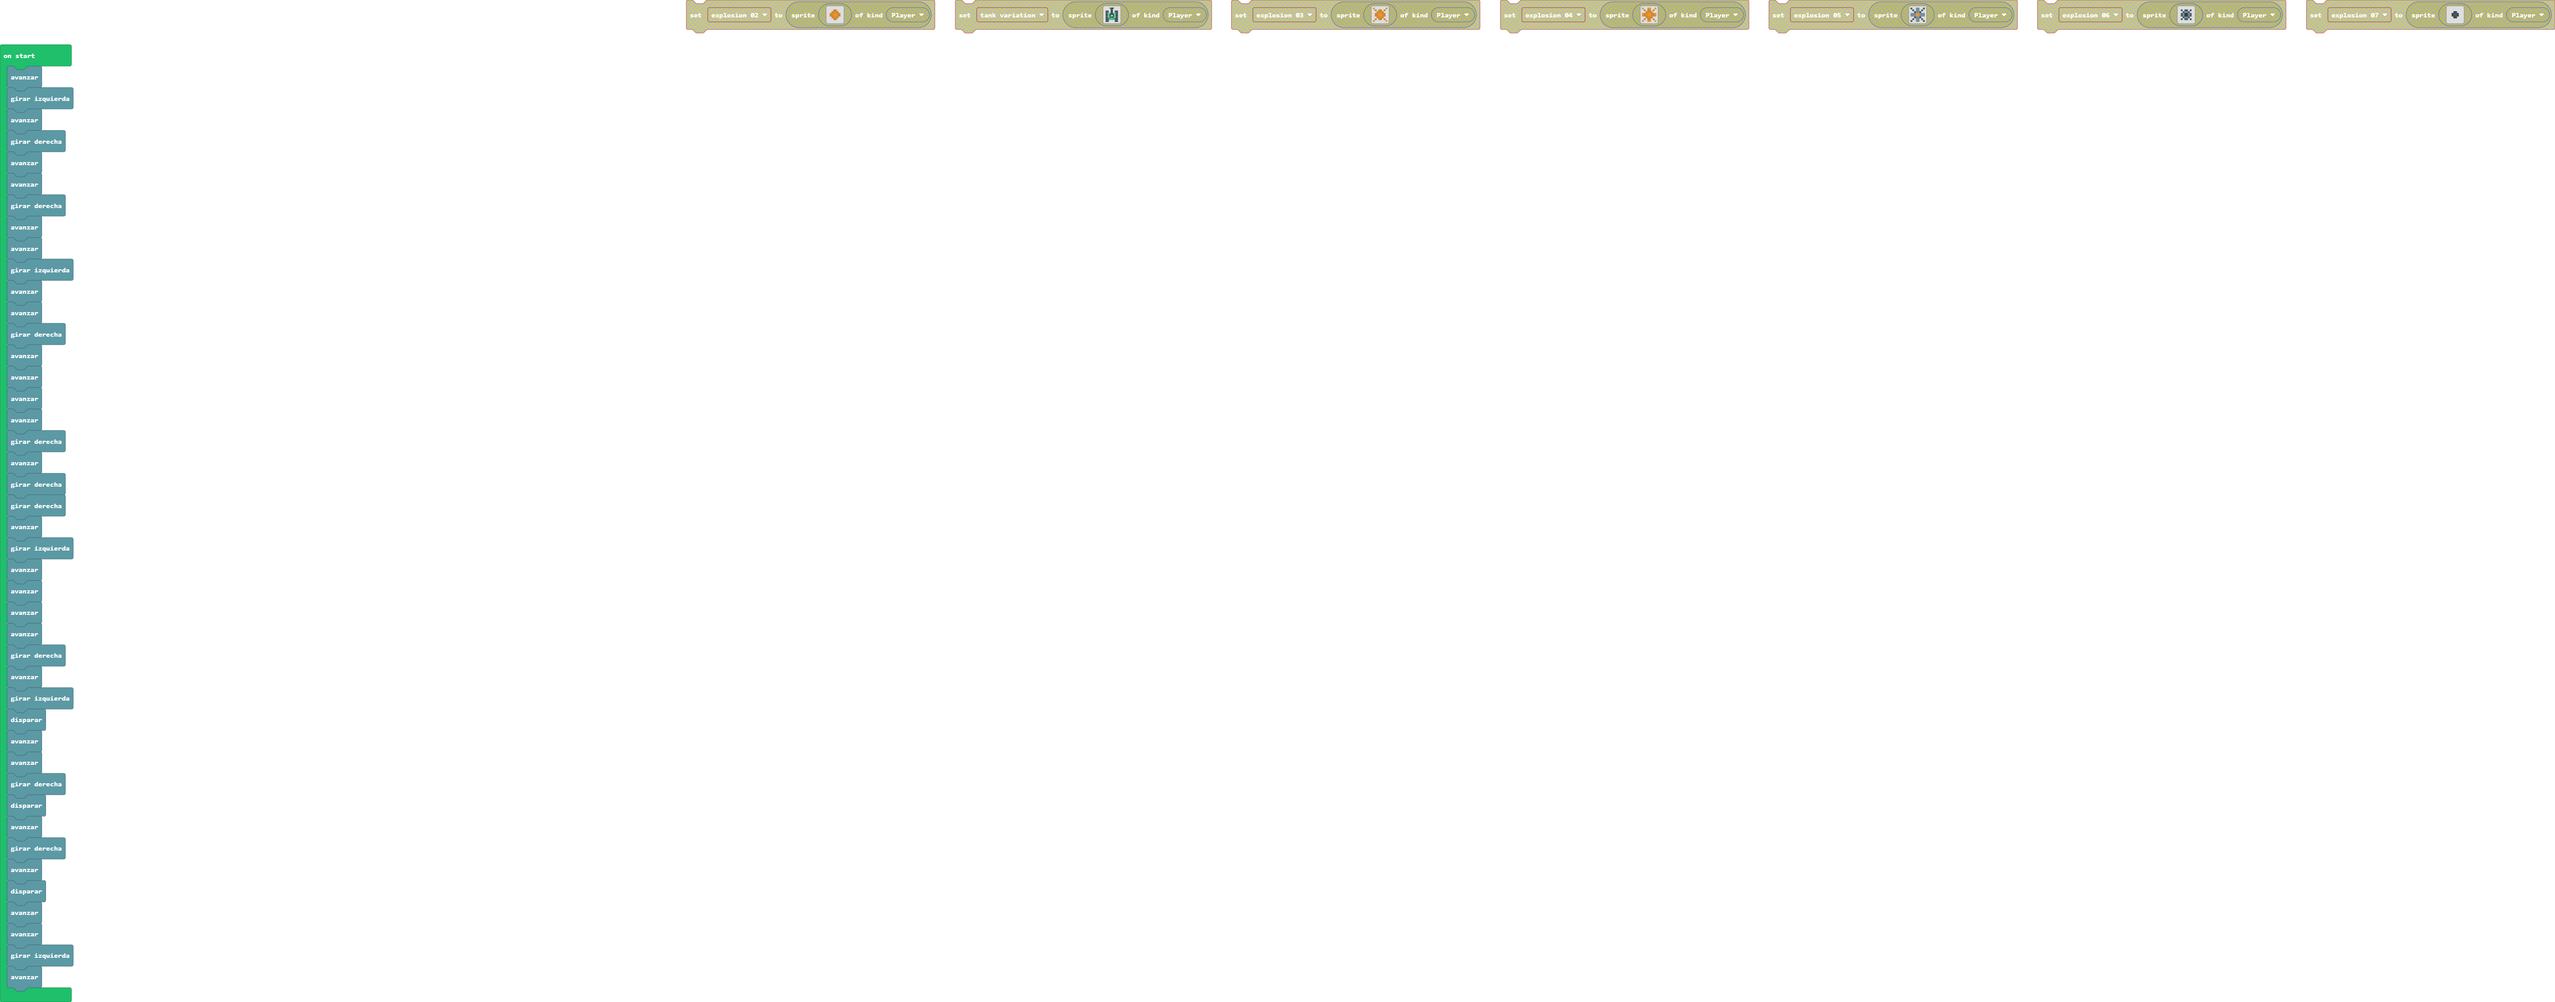
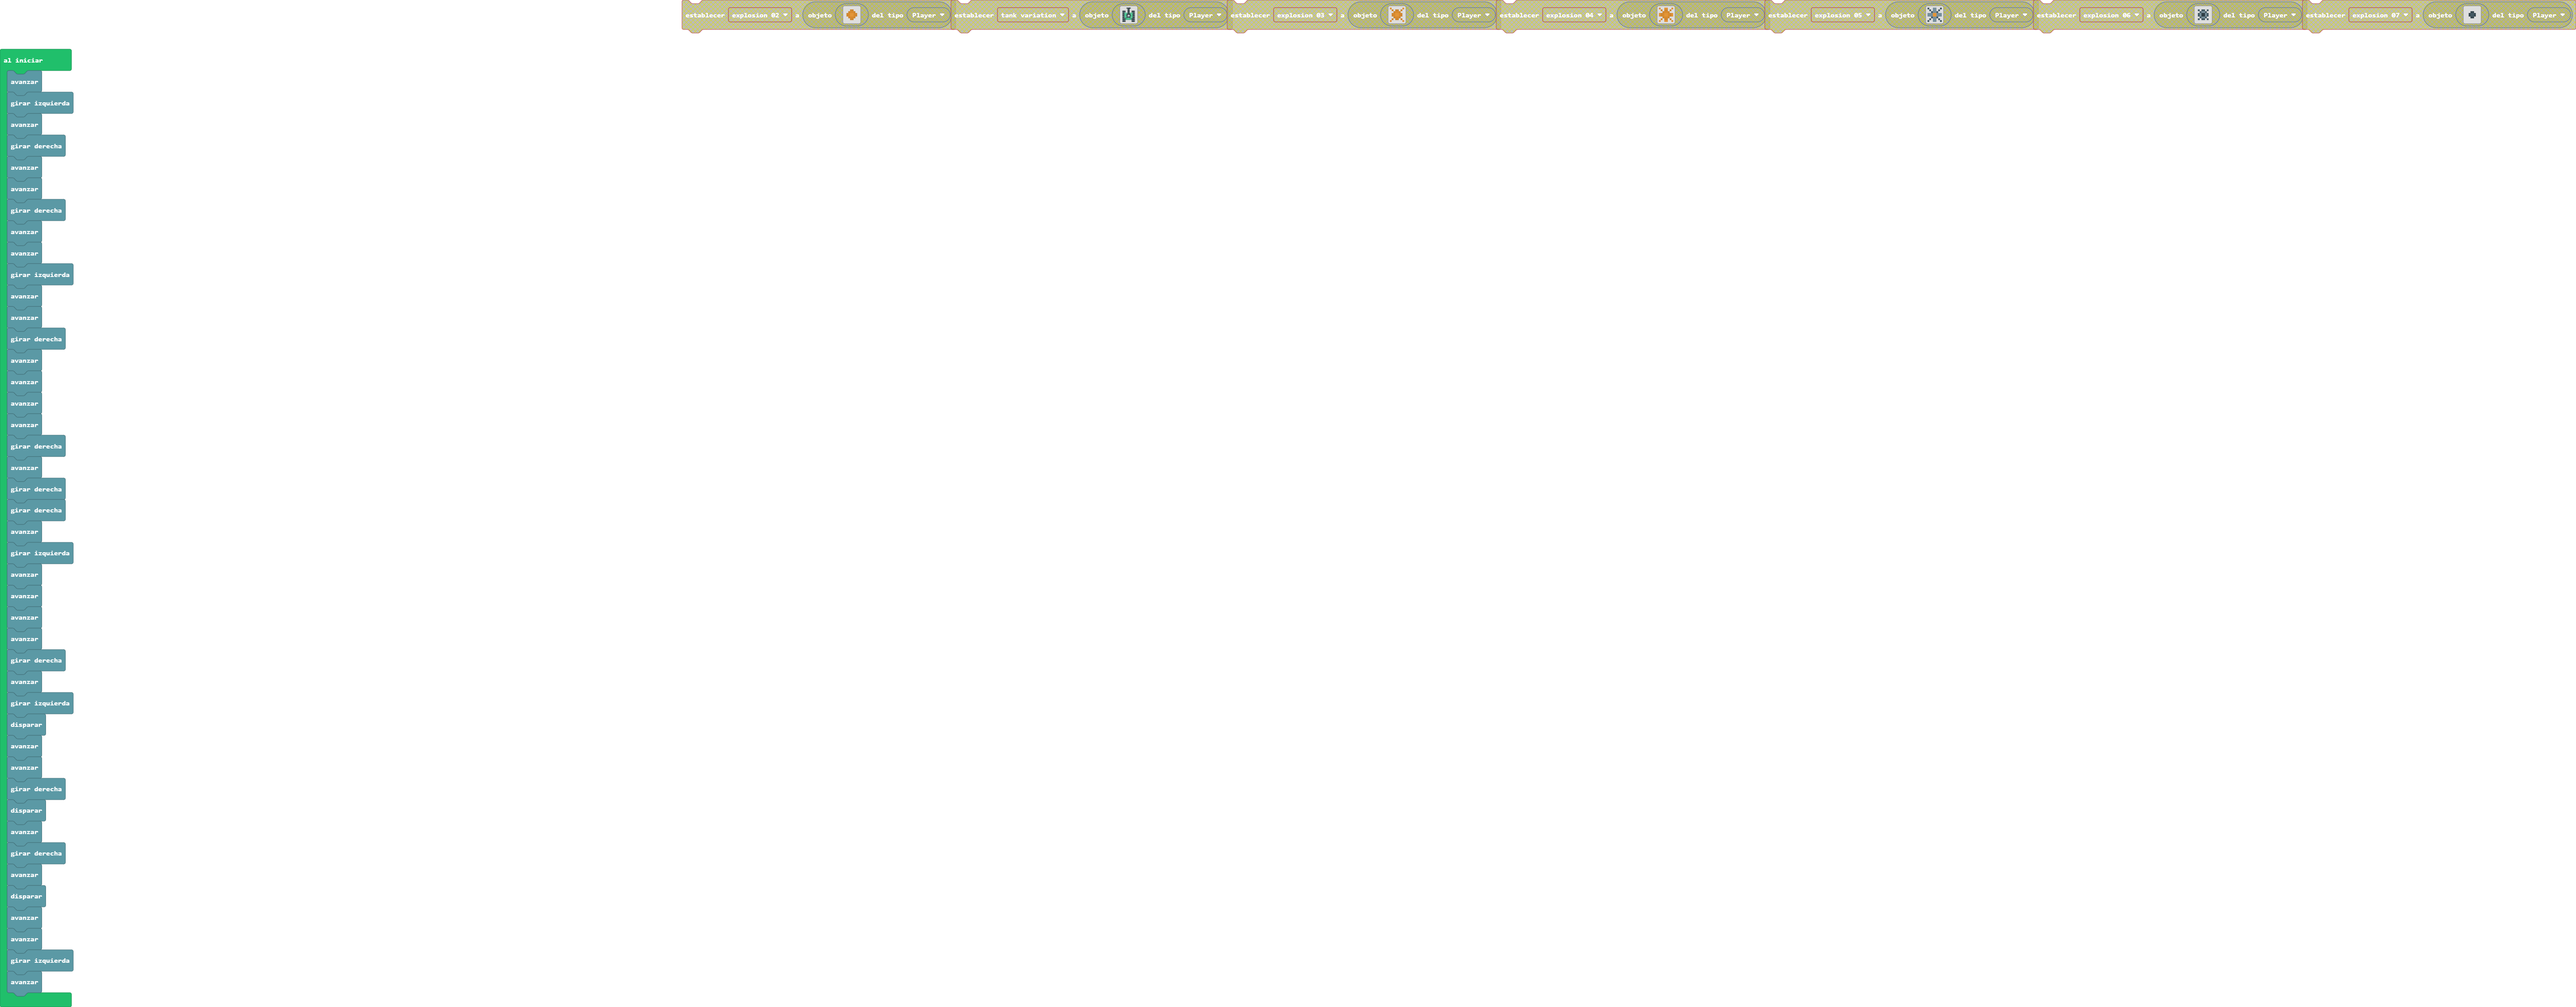
sounds

diff --git a/tank.ts b/tank.ts
@@ -113,11 +113,13 @@ f f f f f f f f f f f .
                     return;
                 break;
         }
+        music.playSoundEffect(music.createSoundEffect(WaveShape.Sawtooth, 186, 1, 133, 0, 700, SoundExpressionEffect.Vibrato, InterpolationCurve.Linear), SoundExpressionPlayMode.InBackground)
         this.board.stones[column][row].destroy();
         this.board.stones[column][row] = null;
     }
 
     shoot() {
+        music.playSoundEffect(music.createSoundEffect(WaveShape.Square, 1, 186, 255, 0, 500, SoundExpressionEffect.Vibrato, InterpolationCurve.Linear), SoundExpressionPlayMode.InBackground)
         if (this.bullet > 0) {
             scene.cameraShake(2, 500)
             this.bullet -= 1;
@@ -204,6 +206,7 @@ f f f f f f f f f f f .
 
         
         this.gasoline -= 1;
+        music.playSoundEffect(music.createSoundEffect(WaveShape.Square, 1, 98, 151, 151, 800, SoundExpressionEffect.Vibrato, InterpolationCurve.Curve), SoundExpressionPlayMode.InBackground)
         panel.drawLeftEnergy(this.gasoline);
 
         for (let i = 0; i < 16; i++) {
@@ -224,6 +227,7 @@ f f f f f f f f f f f .
             basic.pause(50);
         }
         if (this.board.gas[this.cell.column][this.cell.row]){
+            music.playSoundEffect(music.createSoundEffect(WaveShape.Square, 114, 500, 255, 0, 600, SoundExpressionEffect.Vibrato, InterpolationCurve.Curve), SoundExpressionPlayMode.InBackground)
             this.gasoline = 14;
             panel.drawLeftEnergy(this.gasoline);
             this.board.gas[this.cell.column][this.cell.row].destroy();

diff --git a/tilemap.g.ts b/tilemap.g.ts
@@ -1,4 +1,4 @@
-// Auto-generated code. Do not edit.
+// Código generado automáticamente. No editar.
 namespace myTiles {
     //% fixedInstance jres blockIdentity=images._tile
     export const transparency16 = image.ofBuffer(hex``);
@@ -11,4 +11,4 @@ namespace myTiles {
     })
 
 }
-// Auto-generated code. Do not edit.
+// Código generado automáticamente. No editar.

diff --git a/images.g.ts b/images.g.ts
@@ -1,4 +1,4 @@
-// Auto-generated code. Do not edit.
+// Código generado automáticamente. No editar.
 namespace myImages {
 
     helpers._registerFactory("image", function(name: string) {
@@ -23,4 +23,4 @@ namespace myImages {
     })
 
 }
-// Auto-generated code. Do not edit.
+// Código generado automáticamente. No editar.
